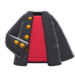
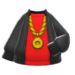
preview item on character while on shopping view

diff --git a/src/store.ts b/src/store.ts
@@ -1,22 +1,22 @@
 export const store = [
-  { id: 1, name: "Adventure Dress", cost: 2800, type: "dress", img: "./img/dresses/adventuredress.png"},
-  { id: 2, name: "Alplinist Dress", cost: 2520, type: "dress", img: "./img/dresses/alpinistdress.png"},
-  { id: 3, name: "Dreamy Dress", cost: 2080, type: "dress", img: "./img/dresses/dreamydress.png"},
-  { id: 4, name: "Frugal Dress", cost: 480, type: "dress", img: "./img/dresses/frugaldress.png"},
-  { id: 5, name: "Checkered Jumper Dress", cost: 1840, type: "dress", img: "./img/dresses/checkeredjumperdress.png"},
-  { id: 6, name: "Blossom Tee", cost: 800, type: "top", img: "./img/tops/blossomtee.png"},
-  { id: 7, name: "After-school jacket", cost: 1050, type: "top", img: "./img/tops/afterschooljacket.png"},
-  { id: 8, name: "Sailor's Tee", cost: 1050, type: "top", img: "./img/tops/sailorstee.png"},
-  { id: 9, name: "Checkered Chesterfield Coat", cost: 2380, type: "top", img: "./img/tops/checkeredchesterfieldcoat.png"},
-  { id: 10, name: "Detective's Coat", cost: 2500, type: "top", img: "./img/tops/detectivescoat.png"},
-  { id: 11, name: "Dreamy Sweater", cost: 1440, type: "top", img: "./img/tops/dreamysweater.png"},
-  { id: 12, name: "Spider-web Tee", cost: 960, type: "top", img: "./img/tops/spiderwebtee.png"},
-  { id: 13, name: "Big Star Tee", cost: 560, type: "top", img: "./img/tops/bigstartee.png"},
-  { id: 14, name: "Graduation gown", cost: 3360, type: "top", img: "./img/tops/graduationgown.png"},
-  { id: 15, name: "Chef's outfit", cost: 1680, type: "top", img: "./img/tops/chefsoutfit.png"},
-  { id: 16, name: "Retro sweater", cost: 1200, type: "top", img: "./img/tops/retrosweater.png"},
-  { id: 17, name: "Bomber-style jacket", cost: 1440, type: "top", img: "./img/tops/bomberstylejacket.png"},
-  { id: 18, name: "Noble Coat", cost: 4800, type: "top", img: "./img/tops/noblecoat.png"},
-  { id: 19, name: "Blossoming Kimono", cost: 3220, type: "dress", img: "./img/dresses/blossomingkimono.png"},
-  { id: 20, name: "Bolero Coat", cost: 2080, type: "top", img: "./img/tops/bolerocoat.png"},
+  { id: 1, name: "Adventure Dress", cost: 2800, type: "dress", img: "./img/dresses/adventuredress.png", prevImg:"./img/character/adventure.png"},
+  { id: 2, name: "Alplinist Dress", cost: 2520, type: "dress", img: "./img/dresses/alpinistdress.png", prevImg:"./img/character/alpinist.png"},
+  { id: 3, name: "Dreamy Dress", cost: 2080, type: "dress", img: "./img/dresses/dreamydress.png", prevImg: './img/character/dreamydress.png'},
+  { id: 4, name: "Frugal Dress", cost: 480, type: "dress", img: "./img/dresses/frugaldress.png", prevImg:'./img/character/frugal.png'},
+  { id: 5, name: "Checkered Jumper Dress", cost: 1840, type: "dress", img: "./img/dresses/checkeredjumperdress.png", prevImg:'./img/character/checkered.png'},
+  { id: 6, name: "Blossom Tee", cost: 800, type: "top", img: "./img/tops/blossomtee.png", prevImg:'./img/character/blossom.png'},
+  { id: 7, name: "After-school jacket", cost: 1050, type: "top", img: "./img/tops/afterschooljacket.png", prevImg:'./img/character/afterschool.png'},
+  { id: 8, name: "Sailor's Tee", cost: 1050, type: "top", img: "./img/tops/sailorstee.png", prevImg: './img/character/sailor.png'},
+  { id: 9, name: "Checkered Chesterfield Coat", cost: 2380, type: "top", img: "./img/tops/checkeredchesterfieldcoat.png", prevImg:'./img/character/chesterfield.png'},
+  { id: 10, name: "Detective's Coat", cost: 2500, type: "top", img: "./img/tops/detectivescoat.png", prevImg:'./img/character/detective.png'},
+  { id: 11, name: "Dreamy Sweater", cost: 1440, type: "top", img: "./img/tops/dreamysweater.png",  prevImg:'./img/character/dreamysweater.png'},
+  { id: 12, name: "Spider-web Tee", cost: 960, type: "top", img: "./img/tops/spiderwebtee.png",  prevImg:'./img/character/spiderweb.png'},
+  { id: 13, name: "Big Star Tee", cost: 560, type: "top", img: "./img/tops/bigstartee.png",  prevImg:'./img/character/star.png'},
+  { id: 14, name: "Graduation gown", cost: 3360, type: "top", img: "./img/tops/graduationgown.png",  prevImg:'./img/character/graduation.png'},
+  { id: 15, name: "Chef's outfit", cost: 1680, type: "top", img: "./img/tops/chefsoutfit.png",  prevImg:'./img/character/chef.png'},
+  { id: 16, name: "Retro sweater", cost: 1200, type: "top", img: "./img/tops/retrosweater.png",  prevImg:'./img/character/retro.png'},
+  { id: 17, name: "Bomber-style jacket", cost: 1440, type: "top", img: "./img/tops/bomberstylejacket.png",  prevImg:'./img/character/bomber.png'},
+  { id: 18, name: "Noble Coat", cost: 4800, type: "top", img: "./img/tops/noblecoat.png",  prevImg:'./img/character/noble.png'},
+  { id: 19, name: "Plaid puffed sleeve shirt", cost: 1220, type: "top", img: "./img/tops/plaidpuffedsleeve.png",  prevImg:'./img/character/puffed.png'},
+  { id: 20, name: "Raincoat", cost: 1280, type: "top", img: "./img/tops/raincoat.png",  prevImg:'./img/character/raincoat.png'},
 ];

diff --git a/src/Pages/Shop/Shop.tsx b/src/Pages/Shop/Shop.tsx
@@ -4,23 +4,28 @@ import "./Shop.css";
 interface ShopProps {
   onClickViewCart: () => void;
   onAddToCart: (id: number) => void;
+  onPrevItem: (id: number) => void;
   allItems: {
     id: number;
     name: string;
     cost: number;
     type: string;
     img: string;
+    prevImg: string;
   }[];
   totalCost: number;
   cartItems: CartItem[];
+  previewItem: string;
 }
 
 const Shop: React.FC<ShopProps> = ({
   onClickViewCart,
+  onPrevItem,
   allItems,
   onAddToCart,
   totalCost,
   cartItems,
+  previewItem,
 }) => {
   const onDisabledIfInCart = (id: number) => {
     const item = cartItems.find((item) => item.id === id);
@@ -32,12 +37,31 @@ const Shop: React.FC<ShopProps> = ({
     }
   };
 
+  const onDisablePreview = (id: number) => {
+    const item = allItems.find((item) => item.id === id);
+    if (!item) {
+      return false;
+    } else if (item.prevImg === previewItem) {
+      return true;
+    } else {
+      return false;
+    }
+  };
+
   const headerEight = allItems.slice(0, 8).map((item) => (
     <div key={item.id} className="grid-style">
       <div>
         <img src={item.img} alt={item.name} />
       </div>
-      <div>{item.cost} <img src="./img/coin.png" alt="money symbol"/></div>
+      <div>
+        {item.cost} <img src="./img/coin.png" alt="money symbol" />
+      </div>
+      <button
+        disabled={onDisablePreview(item.id)}
+        onClick={() => onPrevItem(item.id)}
+      >
+        <i className="far fa-eye"></i> Preview
+      </button>
       <button
         disabled={onDisabledIfInCart(item.id)}
         onClick={() => onAddToCart(item.id)}
@@ -52,7 +76,15 @@ const Shop: React.FC<ShopProps> = ({
       <div>
         <img src={item.img} alt={item.name} />
       </div>
-      <div>{item.cost} <img src="./img/coin.png" alt="money symbol"/></div>
+      <div>
+        {item.cost} <img src="./img/coin.png" alt="money symbol" />
+      </div>
+      <button
+        disabled={onDisablePreview(item.id)}
+        onClick={() => onPrevItem(item.id)}
+      >
+        <i className="far fa-eye"></i> Preview
+      </button>
       <button
         disabled={onDisabledIfInCart(item.id)}
         onClick={() => onAddToCart(item.id)}
@@ -66,7 +98,15 @@ const Shop: React.FC<ShopProps> = ({
       <div>
         <img src={item.img} alt={item.name} />
       </div>
-      <div>{item.cost} <img src="./img/coin.png" alt="money symbol"/></div>
+      <div>
+        {item.cost} <img src="./img/coin.png" alt="money symbol" />
+      </div>
+      <button
+        disabled={onDisablePreview(item.id)}
+        onClick={() => onPrevItem(item.id)}
+      >
+        <i className="far fa-eye"></i> Preview
+      </button>
       <button
         disabled={onDisabledIfInCart(item.id)}
         onClick={() => onAddToCart(item.id)}
@@ -82,14 +122,20 @@ const Shop: React.FC<ShopProps> = ({
       <div className="grid-right">{rightSix}</div>
 
       <div className="grid-main">
-        <img src="https://via.placeholder.com/250X400" alt="character" />
+        <img src={previewItem} alt="character" />
 
-        <div className="total-money">{totalCost} <img className="bells" src="./img/bells.png" alt="bells money bag" /></div>
+        <div className="total-money">
+          Total Cost: {totalCost}{" "}
+          <img className="bells" src="./img/bells.png" alt="bells money bag" />
+        </div>
       </div>
       <div className="grid-footer">
-        <button><i className="fas fa-times"></i> Cancel</button>
-        <button><i className="far fa-eye"></i> Preview</button>
-        <button onClick={() => onClickViewCart()}>View <i className="fas fa-shopping-cart"></i></button>
+        <button>
+          <i className="fas fa-times"></i> Cancel
+        </button>
+        <button onClick={() => onClickViewCart()}>
+          View <i className="fas fa-shopping-cart"></i>
+        </button>
       </div>
     </div>
   );

diff --git a/src/App.tsx b/src/App.tsx
@@ -4,8 +4,6 @@ import { useState } from "react";
 import Shop from "./Pages/Shop/Shop";
 import Cart from "./Pages/Cart/Cart";
 
-
-
 export interface CartItem {
   id: number;
   quantity: number;
@@ -26,7 +24,7 @@ function App() {
   const [page, setPage] = useState("shop");
   const [allItems, setAllItems] = useState(store);
   const [cartItems, setCartItems] = useState<CartItem[]>([]);
- 
+  const [previewItem, setPreviewItem] = useState('')
 
   const onAddToCart = (id: number) => {
     let list = [];
@@ -42,6 +40,17 @@ function App() {
     }
   };
 
+  const onPrevItem = (id:number)=>{
+    const item = allItems.filter((item) => item.id === id);
+    console.log(item[0].prevImg);
+    setPreviewItem(item[0].prevImg)
+    if (!item) {
+      return false;
+    } else {
+      return true;
+    }
+    
+  }
 
   const onDeleteItemFrCart = (id:number)=>{
     const item = cartItems.filter((item) => item.id !== id);
@@ -60,8 +69,6 @@ function App() {
       
     });
     setCartItems(itemUpdate)
-    console.log(cartItems)
-
   }
 
   const totalCost = calculateTotalCost(allItems, cartItems)
@@ -69,6 +76,8 @@ function App() {
     <div>
       {page === "shop" ? (
         <Shop
+          previewItem={previewItem}
+          onPrevItem={onPrevItem}
           cartItems={cartItems}
           totalCost = {totalCost}
           onAddToCart={onAddToCart}

diff --git a/src/Pages/Cart/Cart.tsx b/src/Pages/Cart/Cart.tsx
@@ -18,6 +18,7 @@ interface CartProps {
     cost: number;
     type: string;
     img: string;
+    prevImg: string;
   }[];
   totalCost: number;
   onDeleteItemFrCart: (id: number) => void;

diff --git a/README.md b/README.md
@@ -14,14 +14,16 @@
     - [X] Update cart with actual clothing items
     - [X] Create confirmation modal for delete 
     - [] Create confirmation modal for adding multiple items
+    - [] Preview item display while in cart view
 - Store front
     - [X] Display how much an item cost
     - [X] Display total cost in cart on the store page
     - [X] CSS Grid: Align clothing items to make an upside down U with the character in middle and buttons on lower right
     - [X] Update store with actual clothing items
+    - [X] Preview an item on character
 
 - Ideas:
-    - [] Preview an item on character
+    
     - [] Display how much money the user has
     - [] If user does not have sufficient amount of money, don't allow user to make purchase
 
